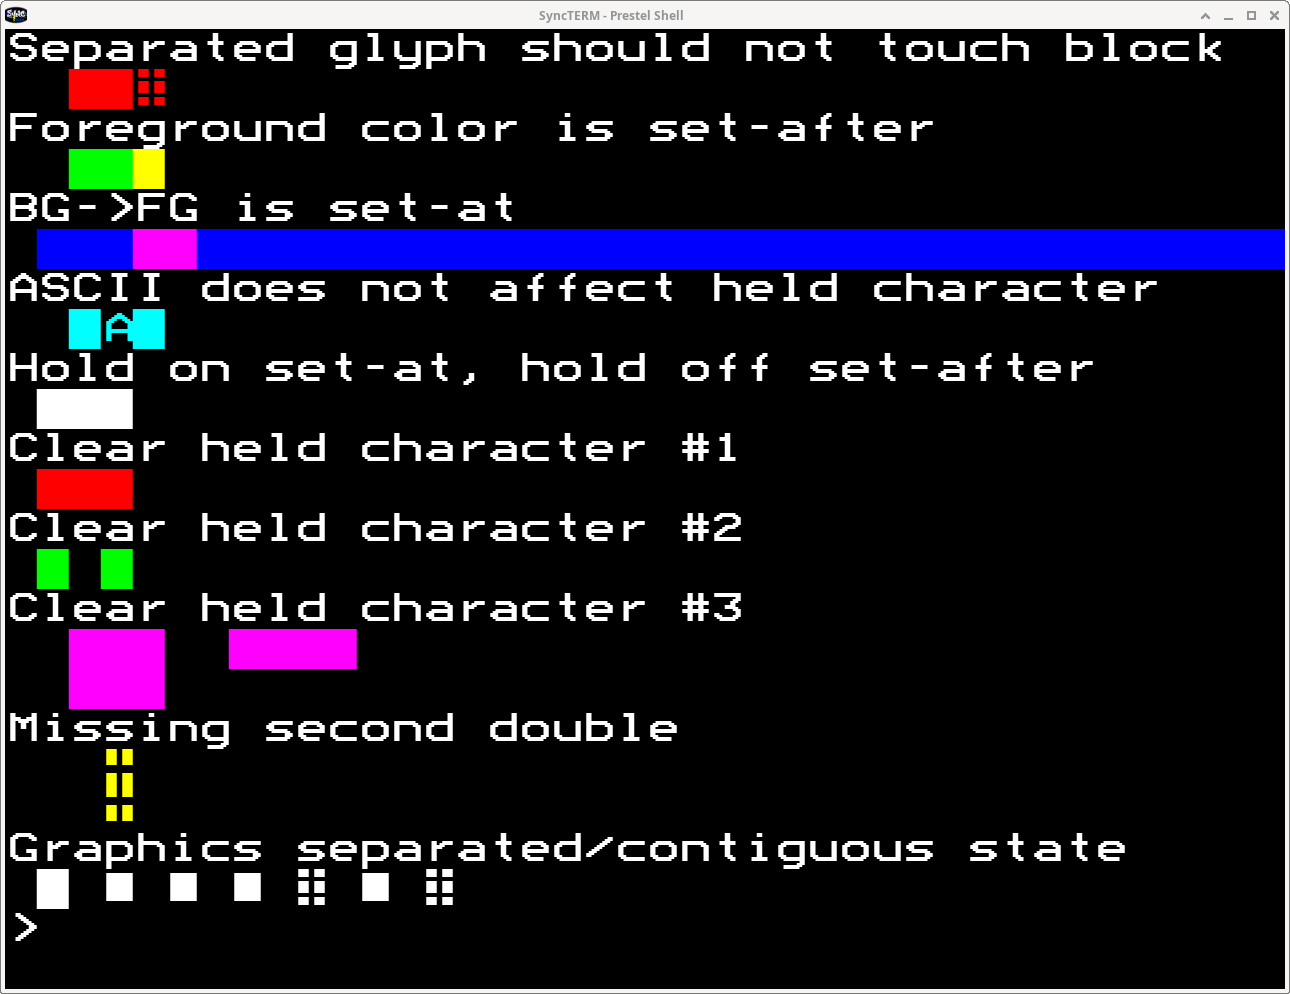
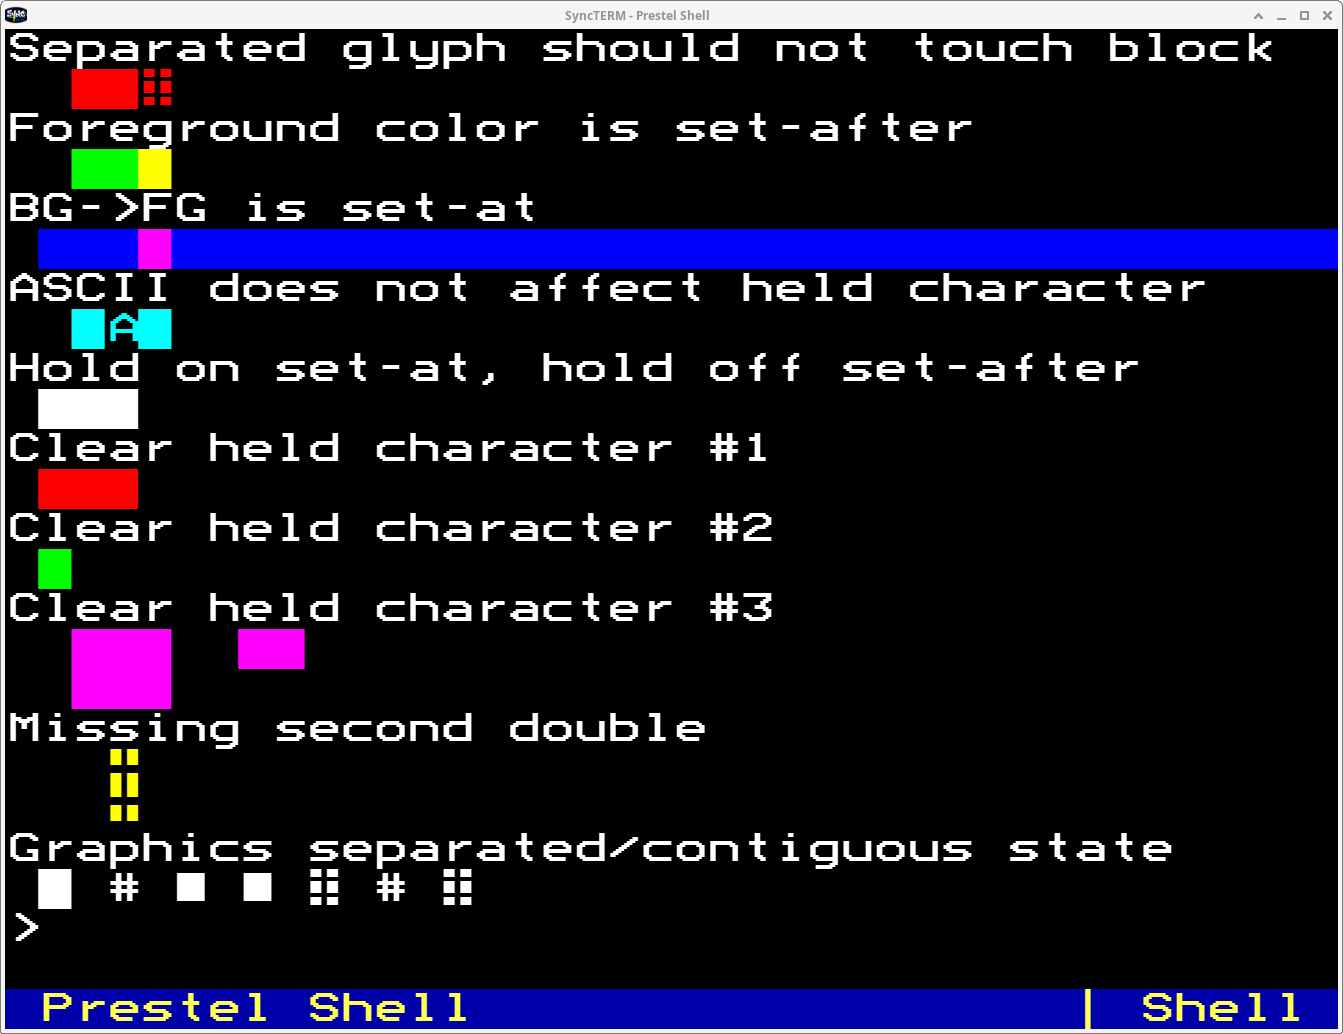
Refine SAA5050 state based on Keyop's experiments
It seems there is a "hold mosaic" mode, but it doesn't completely
avoid look-behind when it's set.  The rules for what "clears" the
held mosaic when not in hold mosic mode are a bit murky... added
extra2.pst to test.

diff --git a/src/conio/cterm.c b/src/conio/cterm.c
@@ -410,10 +410,8 @@ prestel_apply_ctrl_before(struct cterminal *cterm, uint8_t ch)
 				cterm->bg_color |= 0x01000000;
 			break;
 		case 76: // Normal Height
-			if (cterm->extattr & CTERM_EXTATTR_PRESTEL_DOUBLE_HEIGHT) {
-				cterm->extattr &= ~(CTERM_EXTATTR_PRESTEL_HOLD);
-				cterm->prestel_last_mosaic = 0;
-			}
+			cterm->extattr &= ~(CTERM_EXTATTR_PRESTEL_HOLD);
+			cterm->prestel_last_mosaic = 0;
 			cterm->extattr &= ~(CTERM_EXTATTR_PRESTEL_DOUBLE_HEIGHT);
 			cterm->bg_color &= ~0x01000000;
 			break;
@@ -428,6 +426,8 @@ prestel_apply_ctrl_before(struct cterminal *cterm, uint8_t ch)
 			 * was originally, and if there's no held mosaic, this will
 			 * just be a space.
 			 */
+			if (!(cterm->extattr & CTERM_EXTATTR_PRESTEL_HOLD))
+				cterm->prestel_last_mosaic = 0;
 			cterm->extattr &= ~(CTERM_EXTATTR_PRESTEL_SEPARATED);
 			cterm->bg_color &= ~0x20000000;
 			break;
@@ -438,6 +438,8 @@ prestel_apply_ctrl_before(struct cterminal *cterm, uint8_t ch)
 			 * was originally, and if there's no held mosaic, this will
 			 * just be a space.
 			 */
+			if (!(cterm->extattr & CTERM_EXTATTR_PRESTEL_HOLD))
+				cterm->prestel_last_mosaic = 0;
 			cterm->extattr |= CTERM_EXTATTR_PRESTEL_SEPARATED;
 			cterm->bg_color |= 0x20000000;
 			break;
@@ -462,11 +464,12 @@ prestel_colour(struct cterminal *cterm, bool alpha, int colour)
 	cterm->extattr &= ~(CTERM_EXTATTR_PRESTEL_CONCEAL);
 	if (alpha) {
 		cterm->extattr &= ~(CTERM_EXTATTR_PRESTEL_HOLD | CTERM_EXTATTR_PRESTEL_MOSAIC);
-		cterm->prestel_last_mosaic = 0;
 	}
 	else {
 		cterm->extattr |= CTERM_EXTATTR_PRESTEL_MOSAIC;
 	}
+	if (!(cterm->extattr & CTERM_EXTATTR_PRESTEL_HOLD))
+		cterm->prestel_last_mosaic = 0;
 }
 
 static void
@@ -501,10 +504,8 @@ prestel_apply_ctrl_after(struct cterminal *cterm, uint8_t ch)
 				cterm->bg_color |= 0x01000000;
 			break;
 		case 77: // Double Height
-			if ((cterm->extattr & CTERM_EXTATTR_PRESTEL_DOUBLE_HEIGHT) == 0) {
-				cterm->extattr &= ~(CTERM_EXTATTR_PRESTEL_HOLD);
-				cterm->prestel_last_mosaic = 0;
-			}
+			cterm->extattr &= ~(CTERM_EXTATTR_PRESTEL_HOLD);
+			cterm->prestel_last_mosaic = 0;
 			cterm->extattr |= CTERM_EXTATTR_PRESTEL_DOUBLE_HEIGHT;
 			cterm->bg_color |= 0x01000000;
 			break;
@@ -530,6 +531,7 @@ prestel_apply_ctrl_after(struct cterminal *cterm, uint8_t ch)
 			prestel_colour(cterm, false, WHITE);
 			break;
 		case 95: // Release Mosaics
+			cterm->prestel_last_mosaic = 0;
 			cterm->extattr &= ~(CTERM_EXTATTR_PRESTEL_HOLD);
 			break;
 	}
@@ -4711,8 +4713,6 @@ static void prestel_fix_line(struct cterminal *cterm, int x, int y, bool restore
 			     || (line[i].ch >= 96 && line[i].ch < 128))) {
 				// Alphanum but should be mosaic
 				line[i].ch |= 0x80;
-				if (line[i].ch == 0xff)
-					line[i].ch = 0xdf;
 				if (cterm->extattr & CTERM_EXTATTR_PRESTEL_SEPARATED)
 					line[i].bg |= 0x20000000;
 				else
@@ -6033,8 +6033,6 @@ CIOLIBEXPORT size_t cterm_write(struct cterminal * cterm, const void *vbuf, int 
 									if (cterm->extattr & CTERM_EXTATTR_PRESTEL_MOSAIC) {
 										if ((buf[j] < 64 && buf[j] >= 32) || (buf[j] >= 96 && buf[j] < 128)) {
 											ch[0] = buf[j] | 0x80;
-											if (ch[0] == 0xff)
-												ch[0] = 0xdf;
 										}
 										else
 											ch[0] = buf[j];
